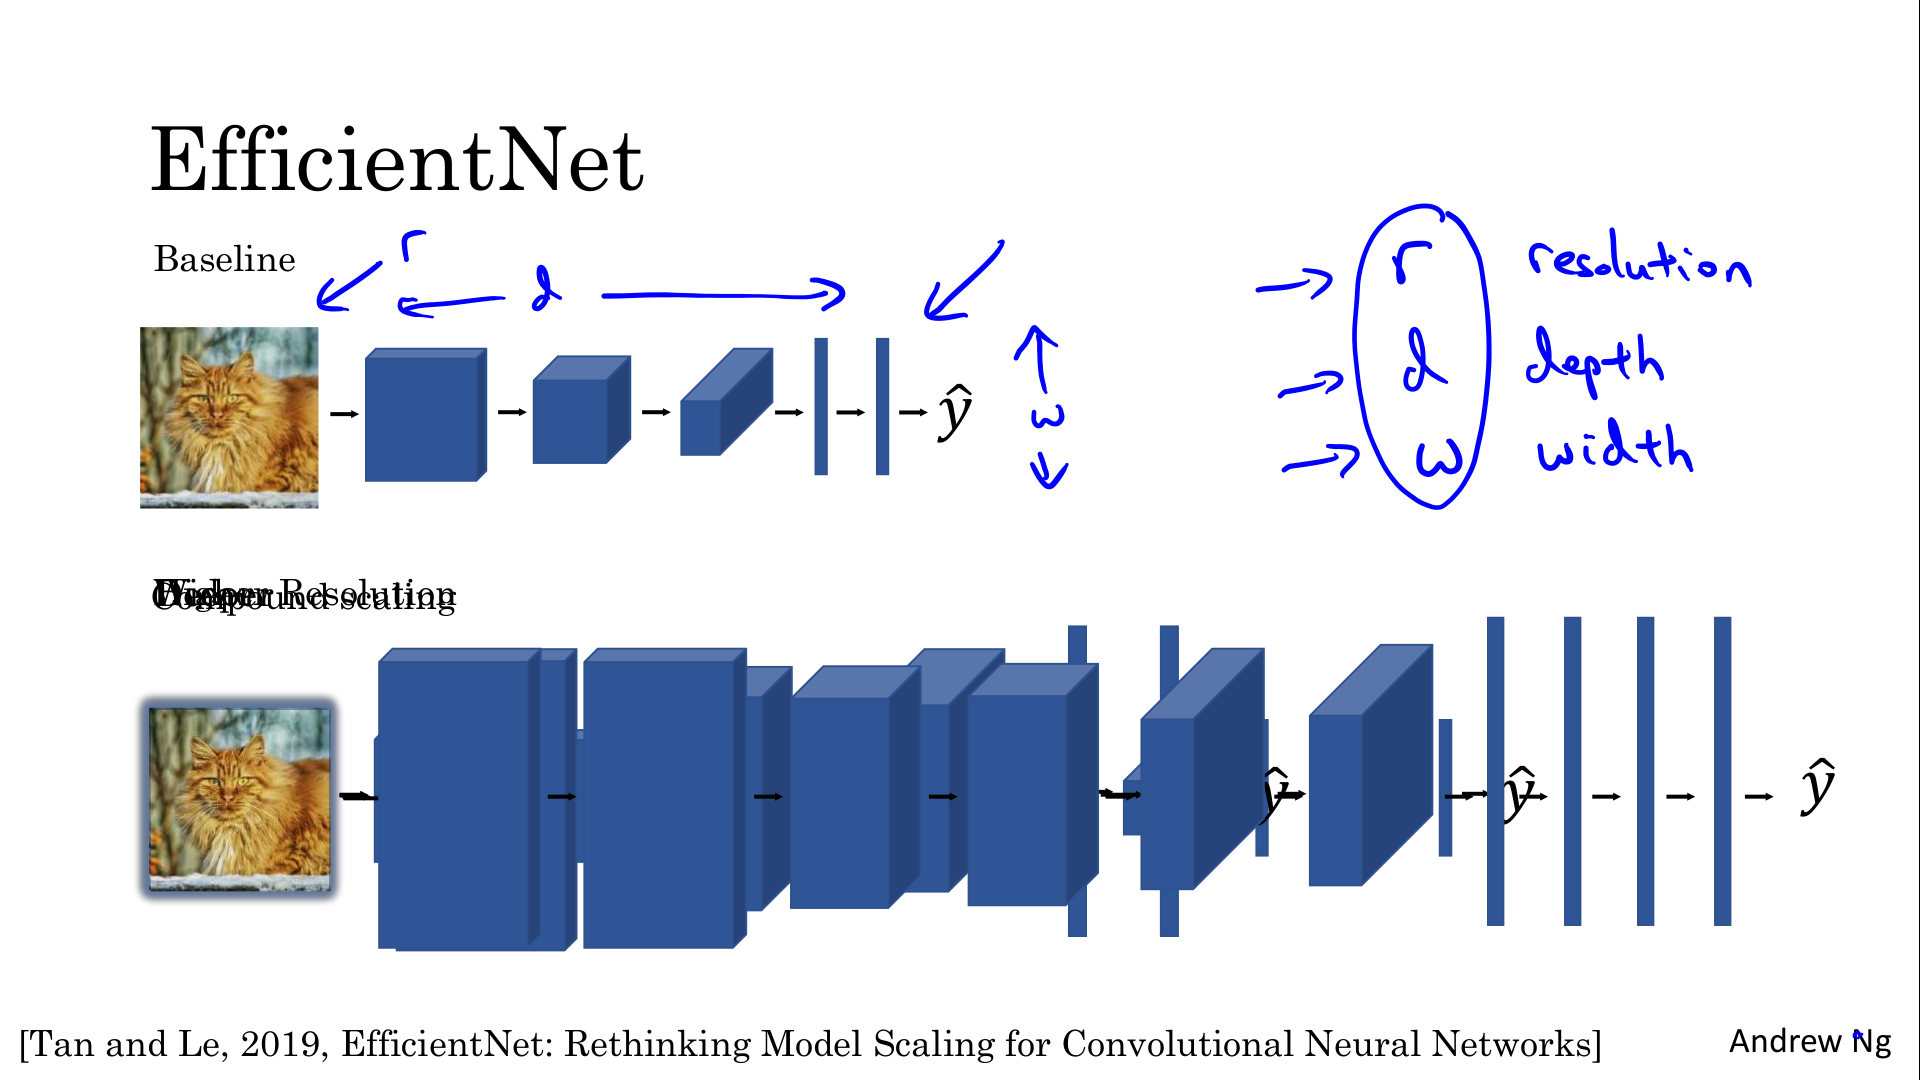
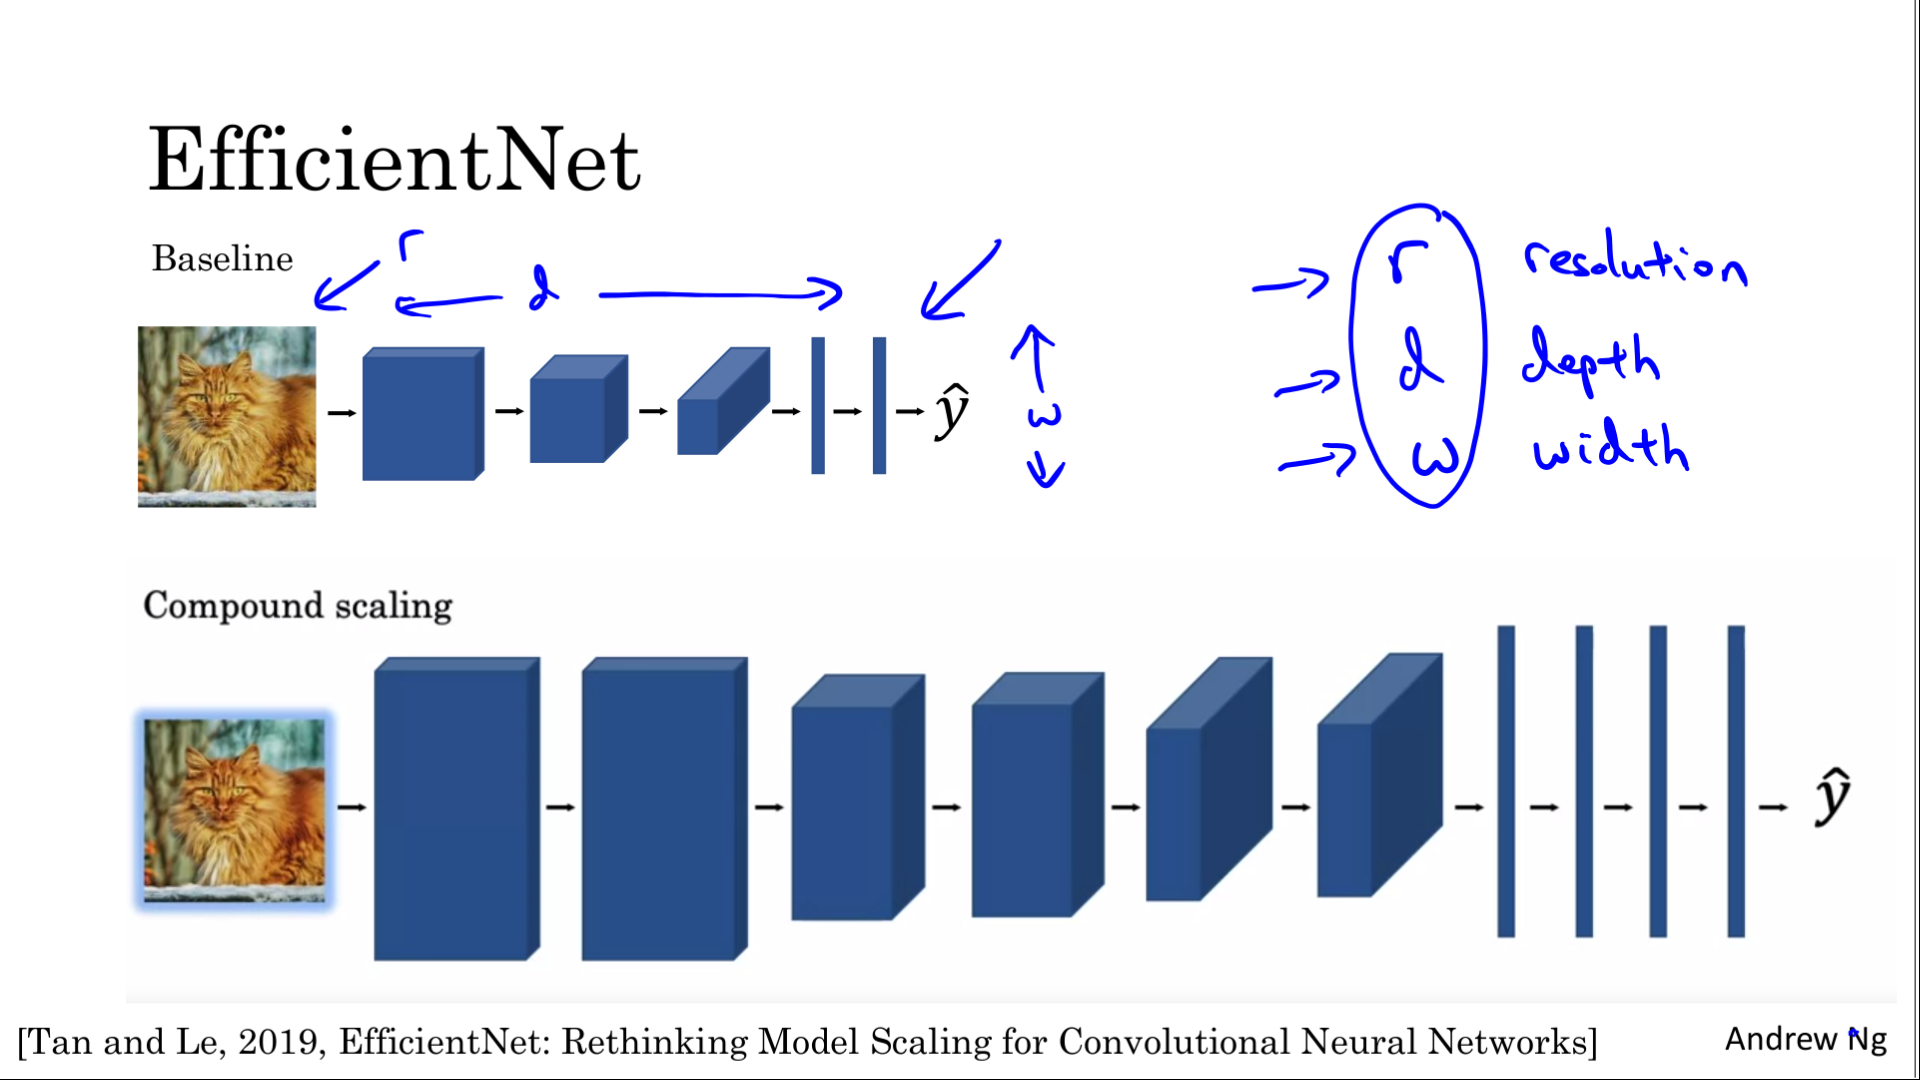
EfficientNet

diff --git a/c4-convolutional-neural-netowrks/week2/README.md b/c4-convolutional-neural-netowrks/week2/README.md
@@ -292,6 +292,15 @@ Detail on MobileNet V2 bottleneck block
 
 ## EfficientNet
 
+MobileNet V1 and V2 gave you a way to implement a neural network, that is more computationally efficient. But is there a way to tune MobileNet, or some other architecture, to your specific device? 
+
+The authors of the EfficientNet paper, Mingxing Tan and Quoc Le, observed that the three things you could do to scale things up or down: 
+- resolution image (r)
+- depth of the neural network (d)
+- you can make the layers wider (w)
+
+If you are ever looking to adapt a neural network architecture for a particular device, look at one of the open source implementations of EfficientNet, which will help you to choose a good trade-off between r, d, and w
+
 > <img src="./images/w02-10-EfficientNet/img_2023-04-04_21-39-52.png">
 
 
